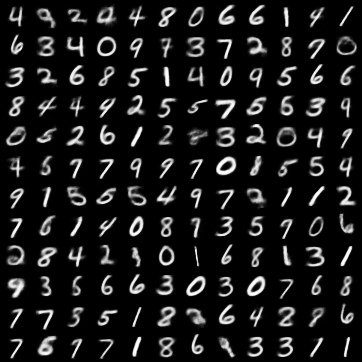
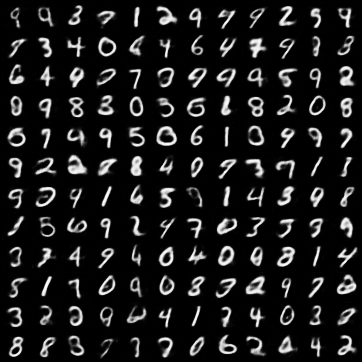
add trained models

diff --git a/trainer_lightning_module.py b/trainer_lightning_module.py
@@ -1,6 +1,6 @@
 from torch.utils.data import DataLoader
 from torchvision.datasets import MNIST
-from torchvision import transforms, utils
+from torchvision import transforms, utils, datasets
 import pytorch_lightning as pl
 from models.VarBayesianAE import *
 from models.BetaVAE import *
@@ -70,7 +70,7 @@ class VAETrainer(pl.LightningModule):
         At the end of epoch we want to Sample from Latent Space and log these
         :return:
         """
-        sampled = self.model.sample(144, self.current_device)
+        standard_norm, sampled = self.model.sample(144, self.current_device)
         img_grid = utils.make_grid(sampled)
         tensorboard = self.logger.experiment
         tensorboard.add_image(f'Sampled Images {self.current_epoch}', img_grid)
@@ -83,7 +83,7 @@ class VAETrainer(pl.LightningModule):
                              n=12,
                              device=self.current_device,
                              path=self.params["plot_2_interpolate_dir"])
-        sampled = self.model.sample(144, self.current_device)
+        standard_norm, sampled = self.model.sample(144, self.current_device)
         img_grid = utils.make_grid(sampled, nrow=12)
         vutils.save_image(img_grid.cpu().data,
                           self.params["plot_sample"],
@@ -92,7 +92,7 @@ class VAETrainer(pl.LightningModule):
 
 
 if __name__ == "__main__":
-    with open("configs/beta_vae.yaml", encoding='utf8') as conf:
+    with open("configs/var_bayesian_config.yaml", encoding='utf8') as conf:
         config = yaml.load(conf, Loader=yaml.FullLoader)
         conf.close()
     # use MNIST Dataset and load training and test data
@@ -111,29 +111,23 @@ if __name__ == "__main__":
     #train_loader = torch.utils.data.DataLoader(train_set, batch_size=64, shuffle=True)
     #val_loader = torch.utils.data.DataLoader(val_set, batch_size=64, shuffle=True)
 
-    from torch.utils.data import DataLoader
-    from torchvision import datasets, transforms
-
-    DEVICE = torch.device("cuda:0" if torch.cuda.is_available() else "cpu")
-    # Root directory for the dataset
-    data_root = "/content/data_faces/img_align_celeba"
-    # Spatial size of training images, images are resized to this size.
-    image_size = 64
-
-    batch_size = 32
+    # transforms for training and validation sets
     transform = transforms.Compose([
-        transforms.Resize((64, 64)),
+        transforms.Resize((config["resize"], config["resize"])),
         transforms.ToTensor()
     ])
-    celeba_data = datasets.ImageFolder('C:\\Users\\robin\\Desktop\\MASTER Mathematics in Data Science\\Seminar\\PyTorch-VAE\\data\\celeba\\', transform=transform)
 
-    training_data = len(celeba_data)
-    train_size = int(0.8 * training_data)
-    val_size = training_data - train_size
-    train, val = torch.utils.data.random_split(celeba_data, [train_size, val_size])
+    if config["data_path"] == "MNIST":
+        data = MNIST(root='./data', transform=transforms.ToTensor(), train=True, download=True)
+    else:
+        data = datasets.ImageFolder(config["data_path"], transform=transform)
 
-    train_loader = DataLoader(train, batch_size=batch_size, shuffle=True)
-    val_loader = DataLoader(val, batch_size=batch_size, shuffle=True)
+    train_size = int(0.8 * len(data))
+    val_size = len(data) - train_size
+    train, val = torch.utils.data.random_split(data, [train_size, val_size])
+
+    train_loader = DataLoader(train, batch_size=config["batch_size"], shuffle=True)
+    val_loader = DataLoader(val, batch_size=config["batch_size"], shuffle=True)
 
 
     #vae = SigmaVAE(in_channels=config["input_image_size"][0],
@@ -143,25 +137,27 @@ if __name__ == "__main__":
     #               stride=config["stride"],
     #               padding=config["padding"],
     #               max_pool=config["max_pool"],
-    #               linear_layer_dimension=config["linear_layer_dimension"])
+    #               linear_layer_dimension=config["linear_layer_dimension"],
+    #               last_conv_layer_kernel_size=config["last_conv_layer_kernel_size"])
 
-    #vae = VarBayesianAE(in_channels=config["input_image_size"][0],
-    #                    hidden_dimensions=config["hidden_dimensions"],
-    #                    latent_dimension= config["latent_dimension"],
-    #                    kernel_size=config["kernel_size"],
-    #                    stride=config["stride"],
-    #                    padding=config["padding"],
-    #                    max_pool=config["max_pool"],
-    #                    linear_layer_dimension=config["linear_layer_dimension"])
+    vae = VarBayesianAE(in_channels=config["input_image_size"][0],
+                        hidden_dimensions=config["hidden_dimensions"],
+                        latent_dimension= config["latent_dimension"],
+                        kernel_size=config["kernel_size"],
+                        stride=config["stride"],
+                        padding=config["padding"],
+                        max_pool=config["max_pool"],
+                        linear_layer_dimension=config["linear_layer_dimension"],
+                        last_conv_layer_kernel_size=config["last_conv_layer_kernel_size"])
 
-    vae = BetaVAE(in_channels=config["input_image_size"][0],
-                    hidden_dimensions=config["hidden_dimensions"],
-                    latent_dimension=config["latent_dimension"],
-                    kernel_size=config["kernel_size"],
-                    stride=config["stride"],
-                    padding=config["padding"],
-                    max_pool=config["max_pool"],
-                    linear_layer_dimension=config["linear_layer_dimension"])
+    #vae = BetaVAE(in_channels=config["input_image_size"][0],
+    #              hidden_dimensions=config["hidden_dimensions"],
+    #              latent_dimension=config["latent_dimension"],
+    #              kernel_size=config["kernel_size"],
+    #              stride=config["stride"],
+    #              padding=config["padding"],
+    #              max_pool=config["max_pool"],
+    #              linear_layer_dimension=config["linear_layer_dimension"])
 
     #vae = LinearVAE(input_dimension=config["input_image_size"],
     #                hidden_dimensions=config["hidden_dimensions"],

diff --git a/models/VarBayesianAE.py b/models/VarBayesianAE.py
@@ -77,7 +77,8 @@ class VarBayesianDecoder(BaseDecoder):
                  stride: tuple[int, ...],
                  padding: int,
                  upsample: [bool, ...],
-                 linear_layer_dimension: int):
+                 linear_layer_dimension: int,
+                 last_conv_layer_kernel_size: [int, ...]):
         """
         Variational Bayesian Decoder
         :param in_channels: Define in Channels of initial Input image (e.g. for [1,28,28] --> 1)
@@ -110,8 +111,8 @@ class VarBayesianDecoder(BaseDecoder):
                 in_channels = hidden_dim
                 out_channels = self.in_channels
             # Build Decoder
-            conv_blocks_decoder.append(BaseTransposeConvBlock(in_channels=in_channels,#hidden_dim,
-                                                              out_channels=out_channels,#hidden_dimensions[idx + 1],
+            conv_blocks_decoder.append(BaseTransposeConvBlock(in_channels=in_channels,
+                                                              out_channels=out_channels,
                                                               kernel_size=kernel_size,
                                                               stride=stride,
                                                               padding=padding,
@@ -120,8 +121,7 @@ class VarBayesianDecoder(BaseDecoder):
         # add one last layer as heigt, weight of image is bigger then initally
         self.final_layer = nn.Conv2d(in_channels=self.in_channels,
                                      out_channels=self.in_channels,
-                                     #kernel_size=(6, 6),
-                                     kernel_size=(1,1),
+                                     kernel_size=last_conv_layer_kernel_size,
                                      stride=(1, 1),
                                      padding=0)
         #self.tanh = nn.Tanh()
@@ -150,7 +150,8 @@ class VarBayesianAE(BaseVarAutoencoder):
                  stride: tuple[int, ...],
                  padding: int,
                  max_pool: [bool, ...],
-                 linear_layer_dimension: int):
+                 linear_layer_dimension: int,
+                 last_conv_layer_kernel_size: [int, ...]):
         super(VarBayesianAE, self).__init__()
 
         self.latent_dimension = latent_dimension
@@ -170,7 +171,8 @@ class VarBayesianAE(BaseVarAutoencoder):
                                           stride=stride,
                                           padding=padding,
                                           upsample=max_pool,
-                                          linear_layer_dimension=linear_layer_dimension)
+                                          linear_layer_dimension=linear_layer_dimension,
+                                          last_conv_layer_kernel_size=last_conv_layer_kernel_size)
 
     def forward(self, inputs: torch.Tensor) -> [torch.Tensor, ...]:
         """

diff --git a/sample_.py b/sample_.py
@@ -42,12 +42,12 @@ vae = VarBayesianAE(in_channels=config["input_image_size"][0],
                     max_pool=config["max_pool"],
                     linear_layer_dimension=3)
 
-path = "C:\\Users\\robin\\Desktop\\MASTER Mathematics in Data Science\\Seminar\\variational-autoencoder\\logs\\BetaVAE\\version_7\\checkpoints\\epoch=9-step=50649.ckpt"
+path = "C:\\Users\\robin\\Desktop\\MASTER Mathematics in Data Science\\Seminar\\variational-autoencoder\\logs\\BetaVAE\\version_11\\checkpoints\\epoch=19-step=101300.ckpt"
+path = "C:\\Users\\robin\\Desktop\\MASTER Mathematics in Data Science\\Seminar\\trained_vae\\logs\\BetaVAE\\version_11\\checkpoints\\epoch=19-step=101300.ckpt"
 
 
 
 ## check with other one
-path = "C:\\Users\\robin\\Desktop\\MASTER Mathematics in Data Science\\Seminar\\variational-autoencoder\\lightning_logs\\version_37\\checkpoints\\epoch=9-step=50649.ckpt"
 model = VAETrainer.load_from_checkpoint(path)
 checkpoint = torch.load(path)
 checkpoint
@@ -60,7 +60,7 @@ model.load_state_dict(checkpoint["state_dict"])
 sample = torch.rand(64, 10)
 out = model.model.decoder(sample)
 
-standard_normal_samples = torch.randn(144, 10)
+standard_normal_samples = torch.randn(12, 128)
 decoded = model.model.decoder(standard_normal_samples.to("cpu"))
 
 vutils.save_image(decoded.cpu().data,
@@ -326,3 +326,20 @@ first_dim_latent = torch.stack(x1_enc)
 train_celeba = torch.utils.data.DataLoader(CelebA(root="../PyTorch-VAE/data", transform=transforms.ToTensor(), download=True, split="train"))
 path = "C:\\Users\\robin\\Desktop\\MASTER Mathematics in Data Science\\Seminar\\PyTorch-VAE\\logs\\VanillaVAE\\version_11\\checkpoints\\epoch=1-step=5087.ckpt"
 
+
+path = "C:\\Users\\robin\\Desktop\\MASTER Mathematics in Data Science\\Seminar\\variational-autoencoder\\logs\\StandardConvVAE\\version_1\\checkpoints\\epoch=19-step=14999.ckpt"
+## check with other one
+model = VAETrainer.load_from_checkpoint(path)
+checkpoint = torch.load(path)
+checkpoint
+
+
+## working
+checkpoint = torch.load(path)
+model.load_state_dict(checkpoint["state_dict"])
+standard_norm, sampled = model.model.sample(144, "cpu")
+img_grid = utils.make_grid(sampled, nrow=12)
+vutils.save_image(img_grid.cpu().data,
+                  "./plots/standard_conv_vae_sampled.png",
+                  normalize=True,
+                  nrow=12)

diff --git a/plots.py b/plots.py
@@ -3,6 +3,7 @@ import matplotlib.pyplot as plt; plt.rcParams['figure.dpi'] = 200
 import numpy as np
 from mpl_toolkits.axes_grid1 import ImageGrid
 import torchvision.utils as vutils
+import imageio
 
 
 def interpolate_2_images(model,
@@ -85,8 +86,46 @@ def plot_2d_latent_space(autoencoder, r0=(-1, 1), r1=(-1, 1), n=50, input_dimens
     return latent_space
 
 
+def plot_latent_traversal(model, latent_dimension, first_k_dims = 20):
+    """
+    Given a model and latent dimension this function plots decoded standard normal draws when traversing them.
+    That means we add per dimension a small delta to observe how the decoded image changes.
+    :param model: trained model
+    :param latent_dimension: latent dimension
+    :param first_k_dims: In case we just want to observe e.g. the first 20 latent dimensions (otherwise one grid will be for example 128*10 images)
+    :return: creates and saves 20 grids f size latent dim x 10. also creates a gif out of these images
+    """
+
+    standard_normal_samples = torch.randn(10, latent_dimension)
+    final_tensor = torch.zeros(10*first_k_dims, 3, 64, 64)
+    for idx, delta in enumerate(torch.linspace(-3, 3, steps=20)):
+        for idx_latent, latent_dim in enumerate(range(first_k_dims)):
+            z = torch.zeros(10, latent_dimension)
+            z[:, latent_dim] = delta
+            latent_sample = standard_normal_samples + z
+            decoded = model.model.decoder(latent_sample.to("cpu"))
+            final_tensor[10*idx_latent: 10*idx_latent + 10] = decoded
+
+            vutils.save_image(final_tensor.cpu().data,
+                              f"plots/gif_latent_128/latent_dim_delta_{idx}.png",
+                              normalize=False,
+                              nrow=10)
+
+    ## create a gif out of the 20 images
+    images = []
+    filenames = [f"plots/gif_latent_128/latent_dim_delta_{index}.png" for index in range(idx+1)]
+    for filename in filenames:
+        images.append(imageio.v2.imread(filename))
+    imageio.mimsave('plots/gif_latent_128/finalgif.gif', images)
+
+    return final_tensor
+
 
 """
+plot_latent_traversal(model, 12, first_k_dims = 10)
+
+
+
 latent=plot_2d_latent_space(model.model, r0=(-1, 1), r1=(-1, 1),  n=50)
 
 vutils.save_image(latent.cpu().data.view(-1,1,28,28),

diff --git a/readme.md b/readme.md
@@ -3,24 +3,70 @@ This repository contains code and ideas about Variational Autoencoders.
 The current code contains an implementation of Variational Bayesian Autoencoders and its deviations, such as  β-VAE or σ-VAE. All ideas and mathematical foundations will be published in slides and in a report.
 As a Dataset I have used the MNIST Dataset 
 
-### Following samples were drawn from the latent spaces
-1. Standard Linear VAE
+## Samples/ reconstructions for β-VAE/ disentangled VAE on CELEBA Dataset
+### 1. β-VAE (β=20, latent_dimension=12)
+
+Sample:
+
+![](plots/12_sample.png)
+
+Reconstructions:
+
+![](plots/12_original.png)
+
+![](plots/12_reconstructed.png)
+
+
+### 2. β-VAE (β=20, latent_dimension=128)
+
+Sample:
+
+![](plots/128_sample_beta.png)
+
+Reconstructions:
+
+![](plots/128_original_beta.png)!
+
+[](plots/128_reconstructed_beta.png)
+
+
+### 3. β-VAE (β=20, latent_dimension=256)
+
+Sample:
+
+![](plots/256_sample.png)
+
+Reconstructions:
+
+![](plots/256_original_beta.png)
+
+![](plots/256_reconstructed_beta.png)
+
+
+## GIF Latent Traversals
+Following GIF comes from a β-VAE with Latent dimension 12. Each image represents one decoded Vector $z \in \mathbb{R}^{12}$ where each entry is standard normal, $z_i \thicksim \mathcal{N}(0,1) \ \forall i \in \{1,...10\}$.
+Each row represents one latent dimension $i \in \{1,...10\}$ (last two latent dimensions are ignored due to image size) when adding small deltas to one latent dimension at a time.
+
+![](plots/gif_latent_12/finalgif.gif)
+
+## Following samples were drawn from the latent spaces with the MNIST Dataset
+### 1. Standard Linear VAE
 
 ![](plots/linear_vae_sampled.png)
 
-2. Standard Convolutional VAE
+### 2. Standard Convolutional VAE
 
 ![](plots/standard_conv_vae_sampled.png)
 
-3. β-VAE (β=2)
+### 3. β-VAE (β=2)
 
 ![](plots/beta_2_vae_sampled.png)
 
-4. β-VAE (β=1e-1)
+### 4. β-VAE (β=1e-1)
 
 ![](plots/beta_4_vae_sampled.png)
 
-5. σ-VAE
+### 5. σ-VAE
 
 ![](plots/sigma_vae_sampled_latent2.png)
 
